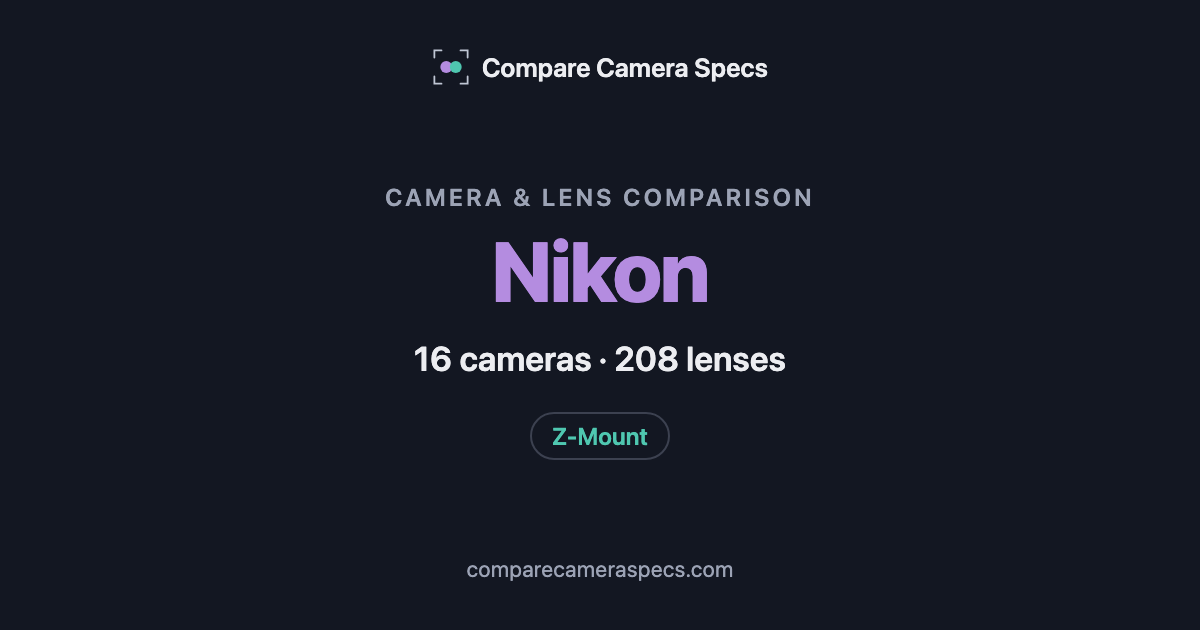
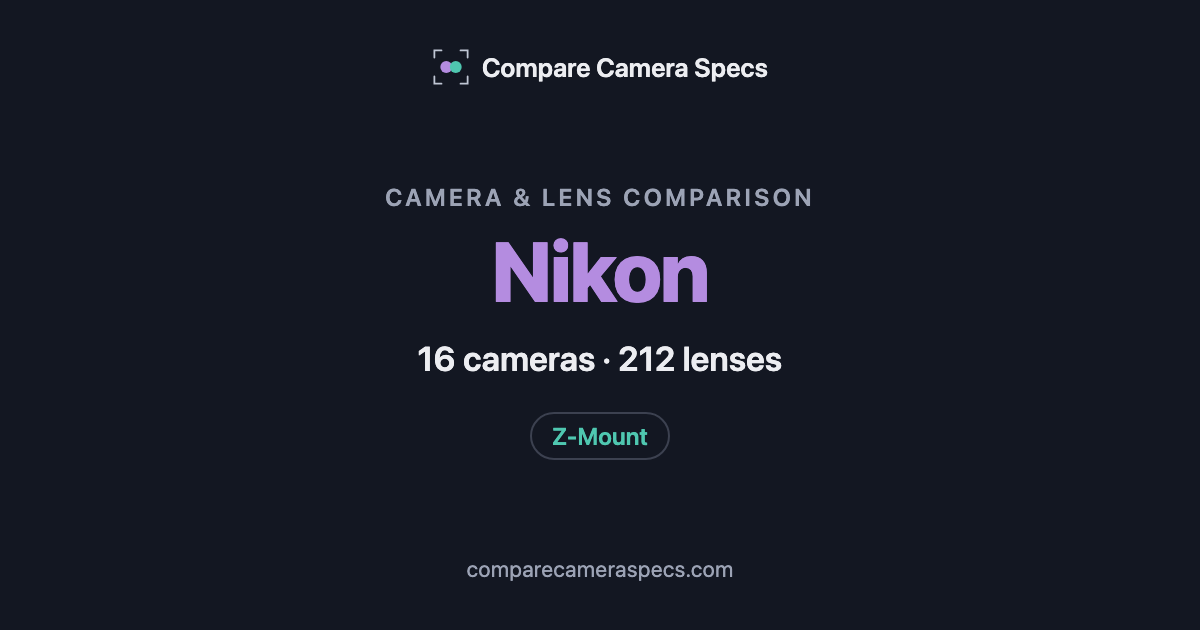
Nikon: add 4 Meike Z-mount lenses
AF 85 f/1.4 MIX II, AF 56 f/1.7 Air, AF 23 f/1.4, AF 35 f/2. Shared optics
from the Sony entries, Z size/weight from B&H's Nikon Z listings, price and
image from Meike's Z store listings. 14 candidates skipped (no Z
dimensions), listed in PROGRESS.md.

Claude-Session: https://claude.ai/code/session_01FYKXhtYCHKNL3CJLW6oPDG

Changed region(s): [[0.3392, 0.5429, 0.6475, 0.6032]]

diff --git a/nikon/data.js b/nikon/data.js
@@ -3696,6 +3696,74 @@ const LENSES = {
     priceIncomplete:true, productUrl:'https://meikeglobal.com/products/8518%E2%85%B1-se-z-mount',
   },
 
+  'meike-85mm-f14-ii': {
+    name:'Meike AF 85mm f/1.4 MIX II', manufacturer:'Meike', line:'MIX', type:'Prime',
+    mount:'z', focalLength:85, focalLengthMin:null, focalLengthMax:null, focalLengthEquiv:'85mm',
+    maxAperture:1.4, minAperture:16, weight:656, length:110, diameter:85,
+    filterThread:77, minFocusDist:81, maxMagnification:null,
+    elements:15, groups:11, blades:11, afType:'STM',
+    weatherSealed:false, ois:false, oisStops:null, year:2026, discontinued:false,
+    imageUrl:'https://cdn.shopify.com/s/files/1/0251/3508/7676/files/8514ii-11.jpg',
+    imageSource: { url:'https://meikeglobal.com/products/8514iiz', tier:'T1', title:'Meike official store', note:'first image of the Z-mount listing, lens alone', date:'2026-10-21' },
+    asin:null,
+    prices:{USD:569,AUD:null,EUR:null,GBP:null,JPY:null,CAD:null,SGD:null},
+    specSources: [{ url:'https://www.bhphotovideo.com/c/product/1992603-REG/x.html/specs', tier:'T3', title:'B&H - Meike AF 85mm f/1.4 MIX II (Nikon Z) specs', note:'Nikon Z listing: 85 x 110mm (diameter x length), 656g, f/1.4-16, 81cm, 15/11, 11 blades, 77mm filter. Used because Meike publishes most specs only as images; shared optics match the Sony E entry', date:'2026-10-21' }, { url:'https://meikeglobal.com/products/8514iiz', tier:'T1', title:'Meike AF 85mm f/1.4 MIX II - official Meike store (Z listing)', note:'confirms the Nikon Z version. Year: 2026', date:'2026-10-21' }],
+    priceSource: { url:'https://meikeglobal.com/products/8514iiz', tier:'T1', title:'Meike official store', note:'Z listing price $569 (store products.json), rounded; non-USD not examined', date:'2026-10-21' },
+    priceIncomplete:true,
+    productUrl:'https://meikeglobal.com/products/8514iiz',
+  },
+
+  'meike-56mm-f17-air': {
+    name:'Meike AF 56mm f/1.7 Air', manufacturer:'Meike', line:'Air', type:'Prime',
+    mount:'z', focalLength:56, focalLengthMin:null, focalLengthMax:null, focalLengthEquiv:'84mm',
+    maxAperture:1.7, minAperture:16, weight:190, length:59.2, diameter:66.5,
+    filterThread:52, minFocusDist:55, maxMagnification:null,
+    elements:11, groups:7, blades:9, afType:'STM',
+    weatherSealed:false, ois:false, oisStops:null, year:2026, discontinued:false,
+    imageUrl:'https://cdn.shopify.com/s/files/1/0251/3508/7676/files/18_4b517d23-88fd-4970-92d7-a2c14c0b8fbc.jpg',
+    imageSource: { url:'https://meikeglobal.com/products/5617z', tier:'T1', title:'Meike official store', note:'first image of the Z-mount listing, lens alone', date:'2026-10-21' },
+    asin:null,
+    prices:{USD:159,AUD:null,EUR:null,GBP:null,JPY:null,CAD:null,SGD:null},
+    specSources: [{ url:'https://www.bhphotovideo.com/c/product/1964753-REG/x.html/specs', tier:'T3', title:'B&H - Meike AF 56mm f/1.7 Air (Nikon Z) specs', note:'Nikon Z listing: 66.5 x 59.2mm, 190g, f/1.7-16, 11/7, 9 blades, 52mm filter. Used because Meike publishes most specs only as images; shared optics match the Sony E entry', date:'2026-10-21' }, { url:'https://meikeglobal.com/products/5617z', tier:'T1', title:'Meike AF 56mm f/1.7 Air - official Meike store (Z listing)', note:'confirms the Nikon Z version. Year: 2026', date:'2026-10-21' }],
+    priceSource: { url:'https://meikeglobal.com/products/5617z', tier:'T1', title:'Meike official store', note:'Z listing price $159 (store products.json), rounded; non-USD not examined', date:'2026-10-21' },
+    priceIncomplete:true,
+    productUrl:'https://meikeglobal.com/products/5617z',
+  },
+
+  'meike-23mm-f14': {
+    name:'Meike AF 23mm f/1.4', manufacturer:'Meike', line:'AF', type:'Prime',
+    mount:'z', focalLength:23, focalLengthMin:null, focalLengthMax:null, focalLengthEquiv:'35mm',
+    maxAperture:1.4, minAperture:16, weight:302, length:81, diameter:66.5,
+    filterThread:58, minFocusDist:25, maxMagnification:null,
+    elements:13, groups:11, blades:9, afType:'STM',
+    weatherSealed:false, ois:false, oisStops:null, year:2025, discontinued:false,
+    imageUrl:'https://cdn.shopify.com/s/files/1/0251/3508/7676/files/2314E---1_a42ce956-bfee-48a7-ac95-a28fef7bf808.jpg',
+    imageSource: { url:'https://meikeglobal.com/products/2314z', tier:'T1', title:'Meike official store', note:'first image of the Z-mount listing, lens alone', date:'2026-10-21' },
+    asin:null,
+    prices:{USD:290,AUD:null,EUR:null,GBP:null,JPY:null,CAD:null,SGD:null},
+    specSources: [{ url:'https://www.bhphotovideo.com/c/product/1942623-REG/x.html/specs', tier:'T3', title:'B&H - Meike AF 23mm f/1.4 (Nikon Z) specs', note:'Nikon Z listing: 66.5 x 81mm, 302g (Sony E 298g), f/1.4-16, 0.25m, 13/11, 9 blades, 58mm filter. Used because Meike publishes most specs only as images; shared optics match the Sony E entry', date:'2026-10-21' }, { url:'https://meikeglobal.com/products/2314z', tier:'T1', title:'Meike AF 23mm f/1.4 - official Meike store (Z listing)', note:'confirms the Nikon Z version. Year: 2025', date:'2026-10-21' }],
+    priceSource: { url:'https://meikeglobal.com/products/2314z', tier:'T1', title:'Meike official store', note:'Z listing price $289.99 (store products.json), rounded; non-USD not examined', date:'2026-10-21' },
+    priceIncomplete:true,
+    productUrl:'https://meikeglobal.com/products/2314z',
+  },
+
+  'meike-35mm-f2': {
+    name:'Meike AF 35mm f/2', manufacturer:'Meike', line:'AF', type:'Prime',
+    mount:'z', focalLength:35, focalLengthMin:null, focalLengthMax:null, focalLengthEquiv:'35mm',
+    maxAperture:2, minAperture:22, weight:298, length:90, diameter:73,
+    filterThread:58, minFocusDist:45, maxMagnification:null,
+    elements:11, groups:9, blades:9, afType:'STM',
+    weatherSealed:false, ois:false, oisStops:null, year:2024, discontinued:false,
+    imageUrl:'https://cdn.shopify.com/s/files/1/0251/3508/7676/files/3520E-_-10.jpg',
+    imageSource: { url:'https://meikeglobal.com/products/3520z', tier:'T1', title:'Meike official store', note:'first image of the Z-mount listing, lens alone', date:'2026-10-21' },
+    asin:null,
+    prices:{USD:220,AUD:null,EUR:null,GBP:null,JPY:null,CAD:null,SGD:null},
+    specSources: [{ url:'https://www.bhphotovideo.com/c/product/1852097-REG/x.html/specs', tier:'T3', title:'B&H - Meike AF 35mm f/2 (Nikon Z) specs', note:'Nikon Z listing: 73 x 90mm, 298g, f/2-22, 0.45m, 11/9, 9 blades, 58mm filter. Used because Meike publishes most specs only as images; shared optics match the Sony E entry', date:'2026-10-21' }, { url:'https://meikeglobal.com/products/3520z', tier:'T1', title:'Meike AF 35mm f/2 - official Meike store (Z listing)', note:'confirms the Nikon Z version. Year: 2024', date:'2026-10-21' }],
+    priceSource: { url:'https://meikeglobal.com/products/3520z', tier:'T1', title:'Meike official store', note:'Z listing price $219.99 (store products.json), rounded; non-USD not examined', date:'2026-10-21' },
+    priceIncomplete:true,
+    productUrl:'https://meikeglobal.com/products/3520z',
+  },
+
   /* ── Yongnuo + Meike batch (2026-08-31): 7 new Yongnuo APS-C/FF primes
      (the maker's entire remaining Z-mount catalogue beyond the 2 already
      above) + 4 new Meike AF primes (MIX/Pro/SE lines). See
@@ -3926,7 +3994,7 @@ const LENS_DROPDOWN_GROUPS = [
   { label: '── Yongnuo ──', ids: ['yongnuo-11mm-f18', 'yongnuo-23mm-f14', 'yongnuo-33mm-f14', 'yongnuo-35mm-f18', 'yongnuo-35mm-f2', 'yongnuo-50mm-f18-da', 'yongnuo-50mm-f18', 'yongnuo-56mm-f14', 'yongnuo-85mm-f18'] },
   { label: '── TTArtisan ──', ids: ['ttartisan-27mm-f28', 'ttartisan-17mm-f18-air', 'ttartisan-23mm-f18', 'ttartisan-35mm-f18-ii', 'ttartisan-40mm-f2', 'ttartisan-50mm-f18-neo', 'ttartisan-56mm-f18', 'ttartisan-75mm-f2', 'ttartisan-85mm-f18-neo', 'ttartisan-50mm-f12', 'ttartisan-tilt-35mm-f14', 'ttartisan-14mm-f28-asph', 'ttartisan-40mm-f28-macro', 'ttartisan-tilt-shift-17mm-f4-asph', 'ttartisan-35mm-f14', 'ttartisan-11mm-f28-fisheye'] },
   { label: '── 7Artisans ──', ids: ['7artisans-27mm-f28', '7artisans-10mm-f28', '7artisans-25mm-f18-lite', '7artisans-35mm-f18-lite', '7artisans-50mm-f18-lite', '7artisans-35mm-f18', '7artisans-40mm-f25-lite', '7artisans-50mm-f18', '7artisans-85mm-f18', '7artisans-10mm-f28-ii', '7artisans-75mm-f14', '7artisans-18mm-f56', '7artisans-10mm-f25-af-fisheye', '7artisans-24mm-f18', '7artisans-135mm-f18', '7artisans-14mm-f28', '7artisans-10mm-f35', '7artisans-10mm-f28-fisheye', '7artisans-25mm-f18', '7artisans-9mm-f56', '7artisans-60mm-f28-2x-macro', '7artisans-18mm-f63-ii'] },
-  { label: '── Meike ──', ids: ['meike-24mm-f14', 'meike-35mm-f18-pro', 'meike-50mm-f18', 'meike-85mm-f18', 'meike-85mm-f18-pro', 'meike-85mm-f18-se-ii'] },
+  { label: '── Meike ──', ids: ['meike-24mm-f14', 'meike-35mm-f18-pro', 'meike-50mm-f18', 'meike-85mm-f18', 'meike-85mm-f18-pro', 'meike-85mm-f18-se-ii', 'meike-85mm-f14-ii', 'meike-56mm-f17-air', 'meike-23mm-f14', 'meike-35mm-f2'] },
 ];
 
 return { BRAND_CONFIG, SERIES_COLORS, CAMERAS, CAMERA_ORDER,

diff --git a/nikon/index.html b/nikon/index.html
@@ -5,17 +5,17 @@
   <meta name="viewport" content="width=device-width, initial-scale=1.0">
   <title>Nikon Z Camera &amp; Lens Comparison</title>
   <!-- seo:begin (generated by scripts/generate-seo.js — do not edit by hand) -->
-  <meta name="description" content="Compare 16 Nikon cameras and 208 lenses side by side — price, sensor, autofocus, stabilization and video, in 7 currencies.">
+  <meta name="description" content="Compare 16 Nikon cameras and 212 lenses side by side — price, sensor, autofocus, stabilization and video, in 7 currencies.">
   <link rel="canonical" href="https://comparecameraspecs.com/nikon/">
   <meta property="og:type" content="website">
   <meta property="og:site_name" content="Compare Camera Specs">
   <meta property="og:title" content="Nikon Camera &amp; Lens Comparison">
-  <meta property="og:description" content="Compare 16 Nikon cameras and 208 lenses side by side — price, sensor, autofocus, stabilization and video, in 7 currencies.">
+  <meta property="og:description" content="Compare 16 Nikon cameras and 212 lenses side by side — price, sensor, autofocus, stabilization and video, in 7 currencies.">
   <meta property="og:url" content="https://comparecameraspecs.com/nikon/">
   <meta property="og:image" content="https://comparecameraspecs.com/og/nikon.png">
   <meta property="og:image:width" content="1200">
   <meta property="og:image:height" content="630">
-  <meta property="og:image:alt" content="Nikon: compare 16 cameras and 208 lenses side by side">
+  <meta property="og:image:alt" content="Nikon: compare 16 cameras and 212 lenses side by side">
   <meta name="twitter:card" content="summary_large_image">
   <meta name="twitter:image" content="https://comparecameraspecs.com/og/nikon.png">
   <script>
@@ -63,7 +63,7 @@
   <!-- seo:body:begin (generated by scripts/generate-seo.js — do not edit by hand) -->
   <section class="seo-links" aria-label="Popular Nikon comparisons">
     <h2>Popular Nikon camera comparisons</h2>
-    <p>Compare all 16 Nikon cameras and 208 lenses side by side — price, sensor, autofocus, stabilization and video, in seven currencies. Popular head-to-head comparisons:</p>
+    <p>Compare all 16 Nikon cameras and 212 lenses side by side — price, sensor, autofocus, stabilization and video, in seven currencies. Popular head-to-head comparisons:</p>
     <ul>
       <li><a href="vs/z6-iii-vs-z6-ii">Nikon Z6 III vs Z6 II</a></li>
       <li><a href="vs/z6-ii-vs-z6">Nikon Z6 II vs Z6</a></li>

diff --git a/index.html b/index.html
@@ -88,7 +88,7 @@
   <meta property="og:image" content="https://comparecameraspecs.com/og/home.png">
   <meta property="og:image:width" content="1200">
   <meta property="og:image:height" content="630">
-  <meta property="og:image:alt" content="Compare 231 cameras and 1093 lenses from 8 brands side by side">
+  <meta property="og:image:alt" content="Compare 231 cameras and 1097 lenses from 8 brands side by side">
   <meta name="twitter:card" content="summary_large_image">
   <meta name="twitter:image" content="https://comparecameraspecs.com/og/home.png">
   <script>
@@ -214,7 +214,7 @@
             <div class="brand-card-body">
               <div class="brand-name">Nikon</div>
               <div class="brand-mount">Z-Mount</div>
-              <div class="brand-count">16 cameras · 208 lenses</div>
+              <div class="brand-count">16 cameras · 212 lenses</div>
               <div class="brand-go">Compare &rarr;</div>
             </div>
           </a>

diff --git a/about.html b/about.html
@@ -15,7 +15,7 @@
   <meta property="og:image" content="https://comparecameraspecs.com/og/home.png">
   <meta property="og:image:width" content="1200">
   <meta property="og:image:height" content="630">
-  <meta property="og:image:alt" content="Compare 231 cameras and 1093 lenses from 8 brands side by side">
+  <meta property="og:image:alt" content="Compare 231 cameras and 1097 lenses from 8 brands side by side">
   <meta name="twitter:card" content="summary_large_image">
   <meta name="twitter:image" content="https://comparecameraspecs.com/og/home.png">
   <script>

diff --git a/privacy.html b/privacy.html
@@ -15,7 +15,7 @@
   <meta property="og:image" content="https://comparecameraspecs.com/og/home.png">
   <meta property="og:image:width" content="1200">
   <meta property="og:image:height" content="630">
-  <meta property="og:image:alt" content="Compare 231 cameras and 1093 lenses from 8 brands side by side">
+  <meta property="og:image:alt" content="Compare 231 cameras and 1097 lenses from 8 brands side by side">
   <meta name="twitter:card" content="summary_large_image">
   <meta name="twitter:image" content="https://comparecameraspecs.com/og/home.png">
   <script>

diff --git a/tests/data/links-offline.test.js b/tests/data/links-offline.test.js
@@ -183,8 +183,8 @@ const KNOWN_SHARED_LINKS = new Map([
 // +19 TTArtisan, +28 7Artisans, +12 Meike, +13 Thypoch/SG-image.
 // Nikon missing-lens pass (add-nikon-missing-thirdparty-lenses, 2026-10-21+),
 // same approach: +1 Tamron, +14 Laowa, +2 Voigtländer, +3 Zeiss, +7 TTArtisan,
-// +13 7Artisans.
-const ASIN_GAP_BASELINE = 311;
+// +13 7Artisans, +4 Meike.
+const ASIN_GAP_BASELINE = 315;
 
 const allItems = () => brandDirs().flatMap(brand => {
   const { data } = loadBrand(brand);

diff --git a/openspec/changes/add-nikon-missing-thirdparty-lenses/PROGRESS.md b/openspec/changes/add-nikon-missing-thirdparty-lenses/PROGRESS.md
@@ -1,6 +1,7 @@
 # Progress — Nikon missing third-party lenses
 
-**Resume at:** 2.6 Meike
+**Resume at:** 2.7 Thypoch / SG-image
+**Meike done 2026-10-21 (4 lenses):** AF 85 f/1.4 MIX II, AF 56 f/1.7 Air, AF 23 f/1.4, AF 35 f/2. Shared optics from the Sony entries; Z size/weight from B&H Nikon Z listings; USD and image from Meike's Z store listing (all USD equal the Sony E prices).
 **7Artisans done 2026-10-21 (13 lenses):** 10 f/2.8 II, 75 f/1.4, 18 f/5.6, AF 10 f/2.5 Fisheye, AF 24 f/1.8, AF 135 f/1.8, 14 f/2.8, 10 f/3.5, 10 f/2.8 Fisheye, 25 f/1.8, 9 f/5.6, 60 f/2.8 2X Macro, 18 f/6.3 II. Shared optics cloned from the Sony entries; Z size/weight from each B&H Nikon Z listing (7Artisans publishes specs as images). USD = store Z variant regular (compare-at) price — all equal to the Sony E prices.
 **TTArtisan done 2026-10-21 (7 lenses):** 50 f/1.2, Tilt 35 f/1.4, 14 f/2.8, 40 f/2.8 Macro, Tilt-Shift 17 f/4, 35 f/1.4, 11 f/2.8 Fisheye. Maker tables give one spec set for all mounts (weight as a range); the Z size/weight are each lens's B&H Nikon Z listing. USD = store Z variant price (no compare-at). Z-specific product shots where the store has them (SKU-Z files). Nikon's "Other" dropdown group split into Yongnuo / TTArtisan / 7Artisans / Meike, as on sony/.
 **Voigtländer + Zeiss done 2026-10-21 (5 lenses):** Nokton 75mm f/1.5 and Nokton Classic 35mm f/1.4 (Cosina EN Z pages; B&H prices $899 / $699; existing 13 Nikon Voigtländer USD prices all still match B&H regular). Zeiss Otus ML 35/50/85 Z from zeiss.com's per-mount Technical Data (Z is 2-3mm longer and 20-40g heavier than E); B&H $2,299 / $2,499 / $2,999; images gapped as on sony/. Also fixed sony zeiss-otus-ml-35mm-f14 year 2025 -> 2026 (announced 2026-02-24).
@@ -34,7 +35,8 @@ Makers' store catalogues (Shopify `products.json`, venuslens Woo Store API, Cosi
 | Laowa | 16 | 14 | 2 | 7f2a8ca |
 | Voigtländer + Zeiss | 5 | 5 | 0 | 63bfe4e |
 | TTArtisan | 22 | 7 | 15 | f2506c2 |
-| 7Artisans | 25 | 13 | 12 | (this commit) |
+| 7Artisans | 25 | 13 | 12 | 0381050 |
+| Meike | 18 | 4 | 14 | (this commit) |
 
 ## Skipped (with reason)
 - Laowa ACRIS 35mm f/2.8 1X Macro (Z AF version, $449, 570g): Laowa gives dimensions for EF only and B&H's Z listing has none — Z length unknown.
@@ -44,6 +46,7 @@ Makers' store catalogues (Shopify `products.json`, venuslens Woo Store API, Cosi
 - TTArtisan, Z dimensions on B&H but the lens weight only as TTArtisan's cross-mount range (owner question: enter the range's upper figure?): APS-C 23mm f/1.4 (60 x 40.5mm; 222~250g), 7.5mm f/2 Fisheye (72 x 57mm; 343~370g), APS-C 25mm f/2 (59 x 31mm; 166~189g), APS-C 35mm f/0.95 (63 x 43mm; 247~267g).
 - TTArtisan, not at B&H and no maker table: AF 24mm f/3.8 mini (new 2026-10, 57g, E/Z), AF 32mm f/2.8 (Z), 21mm f/1.5. Out of scope: M 100mm f/2.8 Bubble (M42/M only), 90mm f/1.25 (GFX/XCD only), Leica-M lenses.
 - 7Artisans, B&H Z listing has no lens dimensions: 35mm f/1.4 Mark III, 7.5mm f/2.8 II Fisheye, 35mm f/1.4 (APS-C), 35mm f/5.6, 6mm f/2 Fisheye, 35mm f/1.2 Mark II. Z dimensions but no Z weight: 50mm f/1.2 (62 x 68mm), 12mm f/2.8 Mark II (70 x 66mm). Not at B&H in Z: 25mm f/0.95, 50mm f/0.95, 35mm f/0.95, 60mm f/2.8 II (APS-C). AF 50/85 f/1.8 'for L' listings are L-mount only.
+- Meike, B&H Z listing has no lens dimensions: AF 33mm f/1.4, MF 10mm f/2, AF 85mm f/1.4 (I), MF 50mm f/0.95, MF 7.5mm f/2.8 Fisheye, AF 55mm f/1.8 Pro, AF 55mm f/1.4. Not at B&H in Z, no maker size: MF 50mm f/1.2 FF, AF 25mm f/1.7 Air, MF 25mm f/0.95, MF 35mm f/0.95, MF 60mm f/2.8 Macro, MF 12mm f/2.8, MK 85mm f/2.8 Macro (2019 pre-sale listing). 85mm f/1.8 Pro Mark II: same version question as on sony/ (owner: skip).
 
 ## Method (reuse from the Sony pass)
 - Gaps: diff each maker's `products.json` handles and names against `productUrl`s/names (a handle can be a substring of another maker's URL — check by name).

diff --git a/openspec/changes/add-nikon-missing-thirdparty-lenses/tasks.md b/openspec/changes/add-nikon-missing-thirdparty-lenses/tasks.md
@@ -9,7 +9,7 @@
 - [x] 2.3 Voigtländer + Zeiss
 - [x] 2.4 TTArtisan
 - [x] 2.5 7Artisans
-- [ ] 2.6 Meike
+- [x] 2.6 Meike
 - [ ] 2.7 Thypoch / SG-image
 - [ ] 2.8 Yongnuo
 
